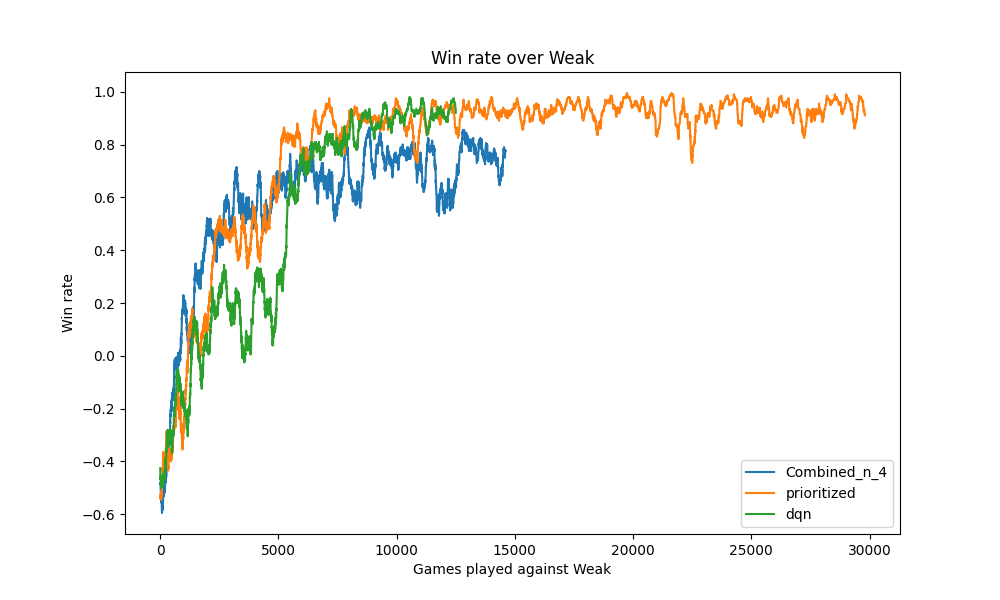
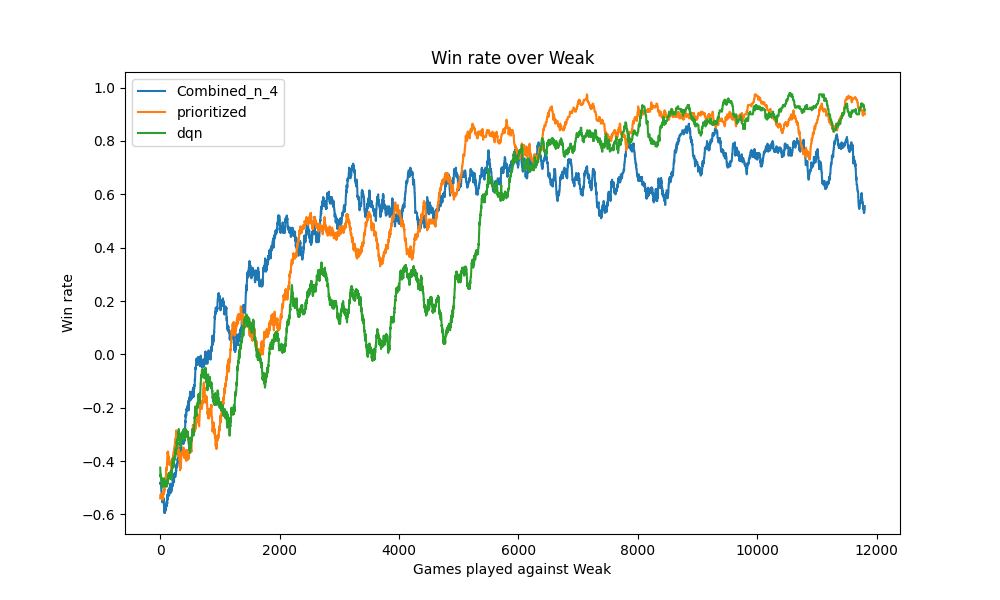
a few more plots

diff --git a/src/hockey-env/plots_for_report.py b/src/hockey-env/plots_for_report.py
@@ -35,6 +35,12 @@ classic_dqn = "../weights/no_prio_agent_23_02_25_n_step_1"
 Combined_n_4 = "../weights/Noisy_Dueling_Double_DQN_Prio_n_step_4_adaptive_training_fixed"
 Combined_n_4_ten_games = "../weights/Noisy_Dueling_Double_DQN_Prio_n_step_4_10_games_only"
 
+
+
+#### Experimentals
+
+bigger_lr = "../weights/Noisy_Dueling_Double_DQN_Prio_n_step_4_lr_0.0005"
+bigger_nn = "../weights/Noisy_Dueling_Double_DQN_Prio_n_step_4_bigger_nn"
 plots_dir = "../../plots"
 def plot_rewards(agents_names, episodes = 5000, name = "rewards"):
     plt.figure(figsize=(10, 6))
@@ -47,12 +53,12 @@ def plot_rewards(agents_names, episodes = 5000, name = "rewards"):
         
      
         plotted_rewards = np_rewards[:int(episodes)]
-        print("================================")
+        """print("================================")
         print(agent_name)
         print(np_rewards.shape)
         print(plotted_rewards.shape)
         
-        print("================================")
+        print("================================")"""
         plt.plot(running_mean(plotted_rewards, 100), label=agent_name)
     plt.xlabel('Episode')
     plt.ylabel('Rewards')
@@ -92,7 +98,10 @@ plot_rewards([(prio_alpha_04, "alpha_0.4_beta_06"),(prio_alpha_02_beta_04, "alph
 plot_rewards([(Combined_n_4, "Combined_n_4"),(tournament_agent_path, "prioritized"), (classic_dqn, "dqn")], episodes = int(2000), name = "rewards_vs_combined")
 plot_rewards([(Combined_n_4,"50 games"),(Combined_n_4_ten_games, "10 games")], episodes = int(2000), name = "rewards_combined_vs_ten_games")
 
+plot_rewards([(bigger_lr, "bigger_lr"),(bigger_nn, "bigger_nn"), (Combined_n_4, "Combined_n_4")], episodes = int(2000), name = "rewards_bigger_lr_nn")
+
 plot_winrate([(tournament_agent_path, "n_step_4"),(n_step_6_path, "n_step_6"),(n_step_1_path, "n_step_1") ], opponent_name=  "Weak", opponent_idx = 1, name = "win_rate_n_steps")
-plot_winrate([(prio_alpha_04, "alpha_0.4_beta_06"),(prio_alpha_02_beta_04, "alpha_0.2_beta_0.4"),(no_prio_n_4, "no_prio_n_4"), (tournament_agent_path, "alpha_02_beta_06"), (classic_dqn, "classic dqn") ], opponent_name=  "Weak", opponent_idx = 1, name = "win_rate_alpha_beta")
-plot_winrate([(Combined_n_4, "Combined_n_4"),(tournament_agent_path, "prioritized"), (classic_dqn, "dqn")], opponent_name=  "Weak", opponent_idx = 1, name = "win_rate_vs_combined")
+plot_winrate([(prio_alpha_04, "alpha_0.4_beta_06"),(prio_alpha_02_beta_04, "alpha_0.2_beta_0.4"),(no_prio_n_4, "no_prio_n_4"), (tournament_agent_path, "alpha_02_beta_06"), (classic_dqn, "classic dqn") ], games = 12000, opponent_name=  "Weak", opponent_idx = 1, name = "win_rate_alpha_beta")
+plot_winrate([(Combined_n_4, "Combined_n_4"),(tournament_agent_path, "prioritized"), (classic_dqn, "dqn")], opponent_name=  "Weak", opponent_idx = 1, name = "win_rate_vs_combined", games = 12000)
 plot_winrate([(Combined_n_4,"50 games"),(Combined_n_4_ten_games, "10 games")], opponent_name=  "Weak", opponent_idx = 1, name = "win_rate_combined_vs_ten_games", games=8000)
+plot_winrate([(bigger_lr, "bigger_lr"),(bigger_nn, "bigger_nn"), (Combined_n_4, "Combined_n_4")], opponent_name=  "Weak", opponent_idx = 1, name = "win_rate_bigger_lr_nn")
